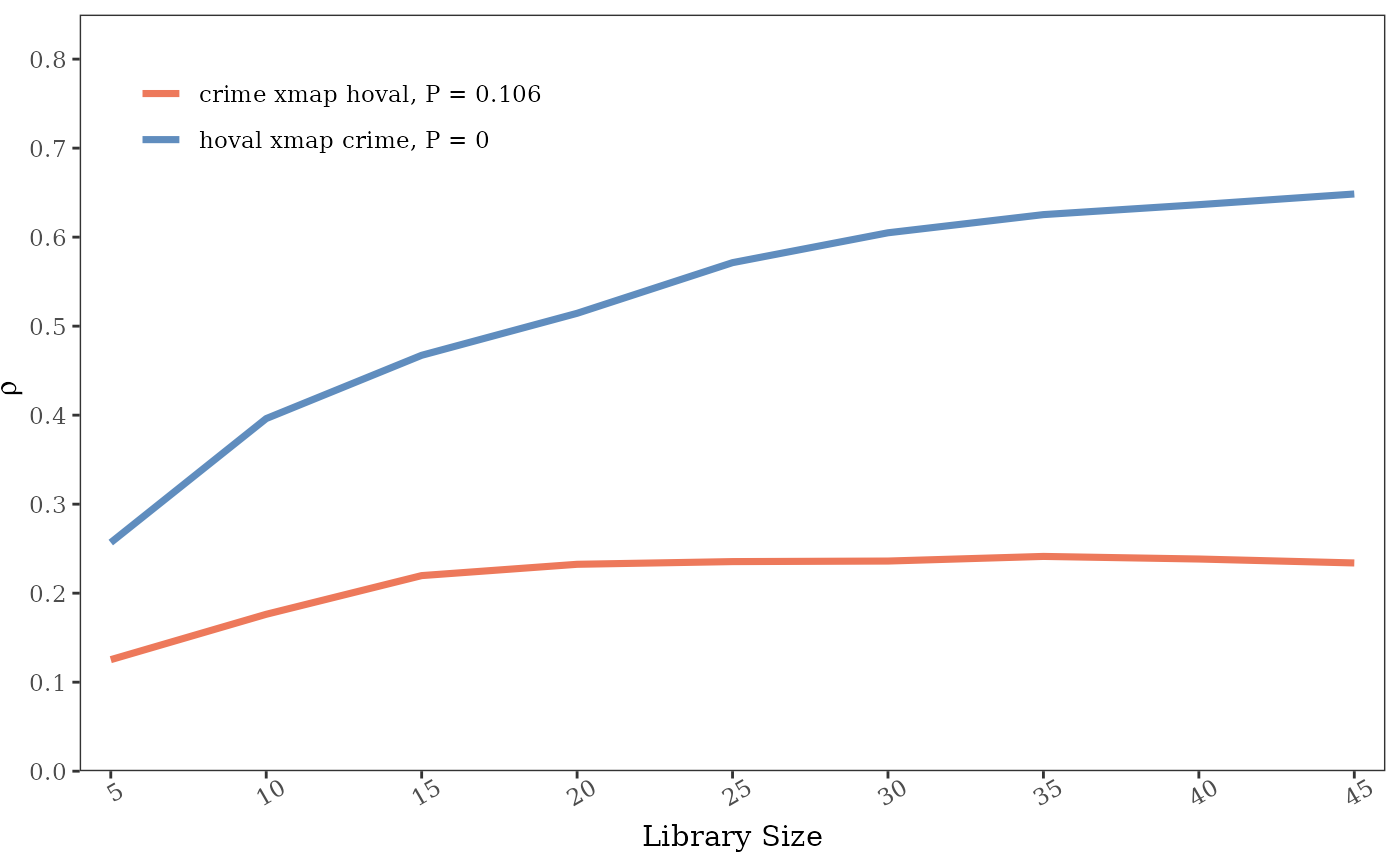
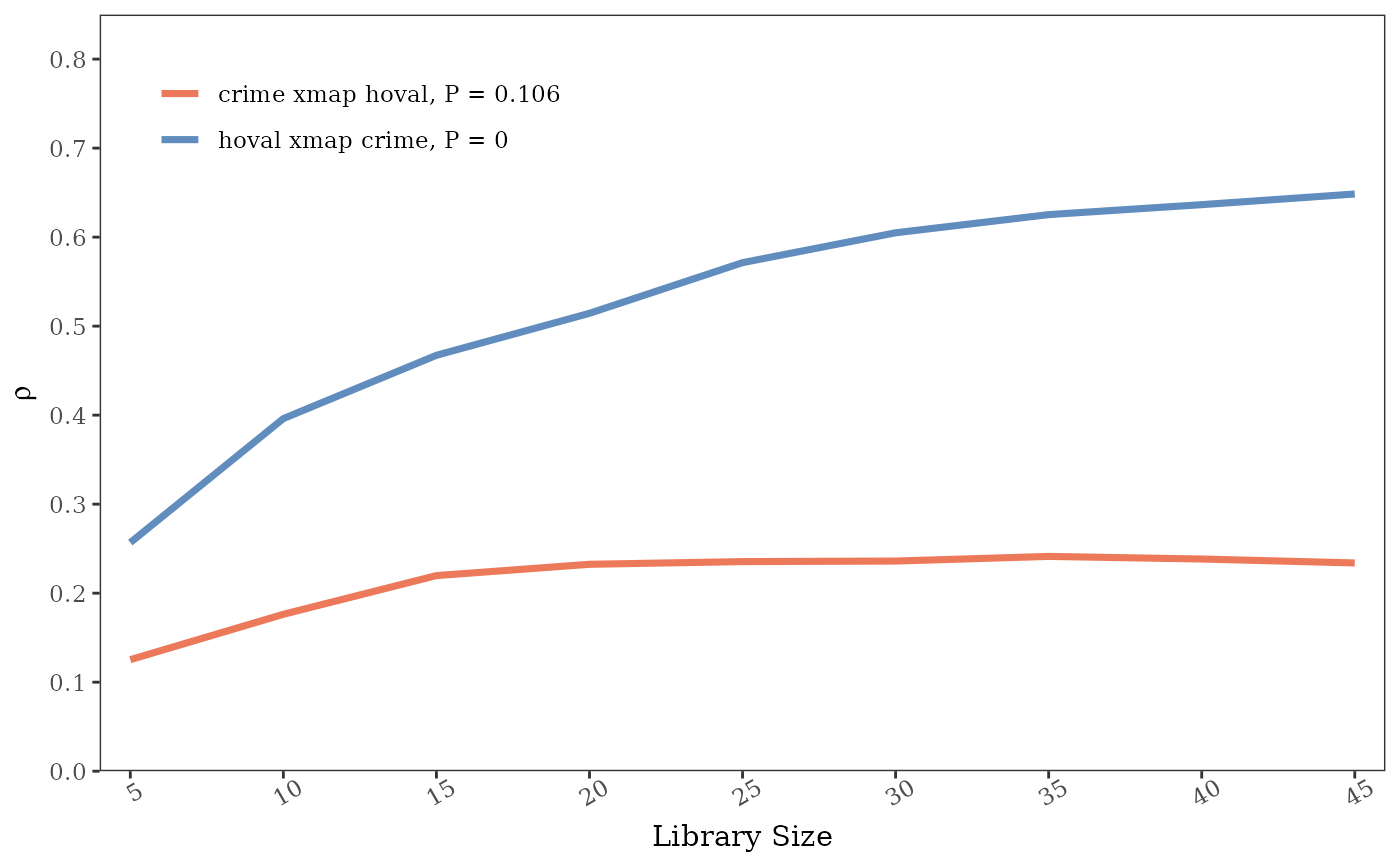
Deploying to gh-pages from @ SpatLyu/spEDM@a8ad164b0715109a0c9b236eea4f783126300f94 🚀

diff --git a/reference/multiview.html b/reference/multiview.html
@@ -188,9 +188,9 @@
     <h2 id="ref-examples">Examples<a class="anchor" aria-label="anchor" href="#ref-examples"></a></h2>
     <div class="sourceCode"><pre class="sourceCode r"><code><span class="r-in"><span><span class="va">columbus</span> <span class="op">=</span> <span class="fu">sf</span><span class="fu">::</span><span class="fu"><a href="https://r-spatial.github.io/sf/reference/st_read.html" class="external-link">read_sf</a></span><span class="op">(</span><span class="fu"><a href="https://rdrr.io/r/base/system.file.html" class="external-link">system.file</a></span><span class="op">(</span><span class="st">"case/columbus.gpkg"</span>,package<span class="op">=</span><span class="st">"spEDM"</span><span class="op">)</span><span class="op">)</span></span></span>
 <span class="r-in"><span><span class="co"># \donttest{</span></span></span>
-<span class="r-in"><span><span class="fu">multiview</span><span class="op">(</span><span class="va">columbus</span>,</span></span>
-<span class="r-in"><span>          column <span class="op">=</span> <span class="fu"><a href="https://rdrr.io/r/base/c.html" class="external-link">c</a></span><span class="op">(</span><span class="st">"inc"</span>,<span class="st">"crime"</span>,<span class="st">"open"</span>,<span class="st">"plumb"</span>,<span class="st">"discbd"</span><span class="op">)</span>,</span></span>
-<span class="r-in"><span>          target <span class="op">=</span> <span class="st">"hoval"</span>, nvar <span class="op">=</span> <span class="fl">3</span><span class="op">)</span></span></span>
+<span class="r-in"><span><span class="fu">spEDM</span><span class="fu">::</span><span class="fu">multiview</span><span class="op">(</span><span class="va">columbus</span>,</span></span>
+<span class="r-in"><span>                 column <span class="op">=</span> <span class="fu"><a href="https://rdrr.io/r/base/c.html" class="external-link">c</a></span><span class="op">(</span><span class="st">"inc"</span>,<span class="st">"crime"</span>,<span class="st">"open"</span>,<span class="st">"plumb"</span>,<span class="st">"discbd"</span><span class="op">)</span>,</span></span>
+<span class="r-in"><span>                 target <span class="op">=</span> <span class="st">"hoval"</span>, nvar <span class="op">=</span> <span class="fl">3</span><span class="op">)</span></span></span>
 <span class="r-out co"><span class="r-pr">#&gt;</span>  [1]  18.8646054  22.4869617  21.1550738  -1.1253460  -9.1007114  -2.7903615</span>
 <span class="r-out co"><span class="r-pr">#&gt;</span>  [7]  -7.6201012  -6.6613986  -8.7202885  16.2907046 -13.4100870   5.5617166</span>
 <span class="r-out co"><span class="r-pr">#&gt;</span> [13]  -4.6242104  -6.0215133 -12.1983725  -9.3303243  14.4441917   2.2055448</span>

diff --git a/reference/embedded.html b/reference/embedded.html
@@ -134,7 +134,7 @@
     <div class="section level2">
     <h2 id="ref-examples">Examples<a class="anchor" aria-label="anchor" href="#ref-examples"></a></h2>
     <div class="sourceCode"><pre class="sourceCode r"><code><span class="r-in"><span><span class="va">columbus</span> <span class="op">=</span> <span class="fu">sf</span><span class="fu">::</span><span class="fu"><a href="https://r-spatial.github.io/sf/reference/st_read.html" class="external-link">read_sf</a></span><span class="op">(</span><span class="fu"><a href="https://rdrr.io/r/base/system.file.html" class="external-link">system.file</a></span><span class="op">(</span><span class="st">"case/columbus.gpkg"</span>,package<span class="op">=</span><span class="st">"spEDM"</span><span class="op">)</span><span class="op">)</span></span></span>
-<span class="r-in"><span><span class="va">v</span> <span class="op">=</span> <span class="fu">embedded</span><span class="op">(</span><span class="va">columbus</span>,<span class="st">"crime"</span><span class="op">)</span></span></span>
+<span class="r-in"><span><span class="va">v</span> <span class="op">=</span> <span class="fu">spEDM</span><span class="fu">::</span><span class="fu">embedded</span><span class="op">(</span><span class="va">columbus</span>,<span class="st">"crime"</span><span class="op">)</span></span></span>
 <span class="r-in"><span><span class="va">v</span><span class="op">[</span><span class="fl">1</span><span class="op">:</span><span class="fl">5</span>,<span class="op">]</span></span></span>
 <span class="r-out co"><span class="r-pr">#&gt;</span>          [,1]     [,2]     [,3]</span>
 <span class="r-out co"><span class="r-pr">#&gt;</span> [1,] 24.71427 41.55964 43.45135</span>
@@ -144,7 +144,7 @@
 <span class="r-out co"><span class="r-pr">#&gt;</span> [5,] 40.46533 34.43484 42.28334</span>
 <span class="r-in"><span></span></span>
 <span class="r-in"><span><span class="va">npp</span> <span class="op">=</span> <span class="fu">terra</span><span class="fu">::</span><span class="fu"><a href="https://rspatial.github.io/terra/reference/rast.html" class="external-link">rast</a></span><span class="op">(</span><span class="fu"><a href="https://rdrr.io/r/base/system.file.html" class="external-link">system.file</a></span><span class="op">(</span><span class="st">"case/npp.tif"</span>,package<span class="op">=</span><span class="st">"spEDM"</span><span class="op">)</span><span class="op">)</span></span></span>
-<span class="r-in"><span><span class="va">r</span> <span class="op">=</span> <span class="fu">embedded</span><span class="op">(</span><span class="va">npp</span>,<span class="st">"npp"</span><span class="op">)</span></span></span>
+<span class="r-in"><span><span class="va">r</span> <span class="op">=</span> <span class="fu">spEDM</span><span class="fu">::</span><span class="fu">embedded</span><span class="op">(</span><span class="va">npp</span>,<span class="st">"npp"</span><span class="op">)</span></span></span>
 <span class="r-in"><span><span class="va">r</span><span class="op">[</span><span class="fu"><a href="https://rdrr.io/r/base/which.html" class="external-link">which</a></span><span class="op">(</span><span class="op">!</span><span class="fu"><a href="https://rdrr.io/r/base/NA.html" class="external-link">is.na</a></span><span class="op">(</span><span class="va">r</span><span class="op">)</span>,arr.ind <span class="op">=</span> <span class="cn">TRUE</span><span class="op">)</span><span class="op">[</span><span class="fl">1</span><span class="op">:</span><span class="fl">5</span><span class="op">]</span>,<span class="op">]</span></span></span>
 <span class="r-out co"><span class="r-pr">#&gt;</span>          [,1]     [,2]     [,3]</span>
 <span class="r-out co"><span class="r-pr">#&gt;</span> [1,] 3467.572 3572.004 2611.333</span>

diff --git a/reference/gpc.html b/reference/gpc.html
@@ -242,7 +242,7 @@
     <h2 id="ref-examples">Examples<a class="anchor" aria-label="anchor" href="#ref-examples"></a></h2>
     <div class="sourceCode"><pre class="sourceCode r"><code><span class="r-in"><span><span class="va">columbus</span> <span class="op">=</span> <span class="fu">sf</span><span class="fu">::</span><span class="fu"><a href="https://r-spatial.github.io/sf/reference/st_read.html" class="external-link">read_sf</a></span><span class="op">(</span><span class="fu"><a href="https://rdrr.io/r/base/system.file.html" class="external-link">system.file</a></span><span class="op">(</span><span class="st">"case/columbus.gpkg"</span>,package<span class="op">=</span><span class="st">"spEDM"</span><span class="op">)</span><span class="op">)</span></span></span>
 <span class="r-in"><span><span class="co"># \donttest{</span></span></span>
-<span class="r-in"><span><span class="fu">gpc</span><span class="op">(</span><span class="va">columbus</span>,<span class="st">"hoval"</span>,<span class="st">"crime"</span>,E <span class="op">=</span> <span class="fl">6</span>,k <span class="op">=</span> <span class="fl">9</span><span class="op">)</span></span></span>
+<span class="r-in"><span><span class="fu">spEDM</span><span class="fu">::</span><span class="fu">gpc</span><span class="op">(</span><span class="va">columbus</span>,<span class="st">"hoval"</span>,<span class="st">"crime"</span>,E <span class="op">=</span> <span class="fl">6</span>,k <span class="op">=</span> <span class="fl">9</span><span class="op">)</span></span></span>
 <span class="r-out co"><span class="r-pr">#&gt;</span>       type   strength      direction</span>
 <span class="r-out co"><span class="r-pr">#&gt;</span> 1 positive        NaN hoval -&gt; crime</span>
 <span class="r-out co"><span class="r-pr">#&gt;</span> 2 negative 0.12226140 hoval -&gt; crime</span>
@@ -252,7 +252,7 @@
 <span class="r-out co"><span class="r-pr">#&gt;</span> 6     dark 0.15444661 crime -&gt; hoval</span>
 <span class="r-in"><span></span></span>
 <span class="r-in"><span><span class="co"># convergence diagnostics</span></span></span>
-<span class="r-in"><span><span class="va">g</span> <span class="op">=</span> <span class="fu">gpc</span><span class="op">(</span><span class="va">columbus</span>,<span class="st">"hoval"</span>,<span class="st">"crime"</span>,libsizes <span class="op">=</span> <span class="fu"><a href="https://rdrr.io/r/base/seq.html" class="external-link">seq</a></span><span class="op">(</span><span class="fl">5</span>,<span class="fl">45</span>,<span class="fl">5</span><span class="op">)</span>,E <span class="op">=</span> <span class="fl">6</span>,k <span class="op">=</span> <span class="fl">9</span><span class="op">)</span></span></span>
+<span class="r-in"><span><span class="va">g</span> <span class="op">=</span> <span class="fu">spEDM</span><span class="fu">::</span><span class="fu">gpc</span><span class="op">(</span><span class="va">columbus</span>,<span class="st">"hoval"</span>,<span class="st">"crime"</span>,libsizes <span class="op">=</span> <span class="fu"><a href="https://rdrr.io/r/base/seq.html" class="external-link">seq</a></span><span class="op">(</span><span class="fl">5</span>,<span class="fl">45</span>,<span class="fl">5</span><span class="op">)</span>,E <span class="op">=</span> <span class="fl">6</span>,k <span class="op">=</span> <span class="fl">9</span><span class="op">)</span></span></span>
 <span class="r-out co"><span class="r-pr">#&gt;</span> 
Computing: [========================================] 100% (done)                         </span>
 <span class="r-out co"><span class="r-pr">#&gt;</span> 
Computing: [========================================] 100% (done)                         </span>
 <span class="r-in"><span><span class="fu"><a href="https://rdrr.io/r/graphics/plot.default.html" class="external-link">plot</a></span><span class="op">(</span><span class="va">g</span><span class="op">)</span></span></span>

diff --git a/news/index.html b/news/index.html
@@ -57,7 +57,8 @@
 </ul></div>
 <div class="section level4">
 <h4 id="enhancements-1-12">enhancements<a class="anchor" aria-label="anchor" href="#enhancements-1-12"></a></h4>
-<ul><li><p>Inject plain-text terminal hint to <code>fnn</code> output (<a href="https://github.com/stscl/spEDM/issues/965" class="external-link">#965</a>).</p></li>
+<ul><li><p>Qualify function calls in examples with namespace for reproducibility (<a href="https://github.com/stscl/spEDM/issues/971" class="external-link">#971</a>).</p></li>
+<li><p>Inject plain-text terminal hint to <code>fnn</code> output (<a href="https://github.com/stscl/spEDM/issues/965" class="external-link">#965</a>).</p></li>
 <li><p>Unify preprocessing strategies for embedding parameters <code>E</code> and <code>tau</code> across spatial causal discovery algorithms (<a href="https://github.com/stscl/spEDM/issues/960" class="external-link">#960</a>).</p></li>
 <li><p>Enable asymmetric configurations (<code>E</code>, <code>tau</code>, <code>k</code>) in bidirectional pattern causality analysis (<a href="https://github.com/stscl/spEDM/issues/955" class="external-link">#955</a>).</p></li>
 </ul></div>

diff --git a/reference/detectThreads.html b/reference/detectThreads.html
@@ -66,7 +66,7 @@
 
     <div class="section level2">
     <h2 id="ref-examples">Examples<a class="anchor" aria-label="anchor" href="#ref-examples"></a></h2>
-    <div class="sourceCode"><pre class="sourceCode r"><code><span class="r-in"><span><span class="fu">detectThreads</span><span class="op">(</span><span class="op">)</span></span></span>
+    <div class="sourceCode"><pre class="sourceCode r"><code><span class="r-in"><span><span class="fu">spEDM</span><span class="fu">::</span><span class="fu">detectThreads</span><span class="op">(</span><span class="op">)</span></span></span>
 <span class="r-out co"><span class="r-pr">#&gt;</span> [1] 4</span>
 <span class="r-in"><span></span></span>
 </code></pre></div>

diff --git a/reference/fnn.html b/reference/fnn.html
@@ -175,7 +175,7 @@
     <h2 id="ref-examples">Examples<a class="anchor" aria-label="anchor" href="#ref-examples"></a></h2>
     <div class="sourceCode"><pre class="sourceCode r"><code><span class="r-in"><span><span class="va">columbus</span> <span class="op">=</span> <span class="fu">sf</span><span class="fu">::</span><span class="fu"><a href="https://r-spatial.github.io/sf/reference/st_read.html" class="external-link">read_sf</a></span><span class="op">(</span><span class="fu"><a href="https://rdrr.io/r/base/system.file.html" class="external-link">system.file</a></span><span class="op">(</span><span class="st">"case/columbus.gpkg"</span>,package<span class="op">=</span><span class="st">"spEDM"</span><span class="op">)</span><span class="op">)</span></span></span>
 <span class="r-in"><span><span class="co"># \donttest{</span></span></span>
-<span class="r-in"><span><span class="fu">fnn</span><span class="op">(</span><span class="va">columbus</span>,<span class="st">"crime"</span><span class="op">)</span></span></span>
+<span class="r-in"><span><span class="fu">spEDM</span><span class="fu">::</span><span class="fu">fnn</span><span class="op">(</span><span class="va">columbus</span>,<span class="st">"crime"</span><span class="op">)</span></span></span>
 <span class="r-out co"><span class="r-pr">#&gt;</span> [spEDM] Output 'E:i' corresponds to the i-th valid embedding dimension.</span>
 <span class="r-out co"><span class="r-pr">#&gt;</span> [spEDM] Input E values exceeding max embeddable dimension were truncated.</span>
 <span class="r-out co"><span class="r-pr">#&gt;</span> [spEDM] Please map output indices to original E inputs before interpretation.</span>

diff --git a/reference/gccm.html b/reference/gccm.html
@@ -231,7 +231,7 @@
     <h2 id="ref-examples">Examples<a class="anchor" aria-label="anchor" href="#ref-examples"></a></h2>
     <div class="sourceCode"><pre class="sourceCode r"><code><span class="r-in"><span><span class="va">columbus</span> <span class="op">=</span> <span class="fu">sf</span><span class="fu">::</span><span class="fu"><a href="https://r-spatial.github.io/sf/reference/st_read.html" class="external-link">read_sf</a></span><span class="op">(</span><span class="fu"><a href="https://rdrr.io/r/base/system.file.html" class="external-link">system.file</a></span><span class="op">(</span><span class="st">"case/columbus.gpkg"</span>,package<span class="op">=</span><span class="st">"spEDM"</span><span class="op">)</span><span class="op">)</span></span></span>
 <span class="r-in"><span><span class="co"># \donttest{</span></span></span>
-<span class="r-in"><span><span class="va">g</span> <span class="op">=</span> <span class="fu">gccm</span><span class="op">(</span><span class="va">columbus</span>,<span class="st">"hoval"</span>,<span class="st">"crime"</span>,libsizes <span class="op">=</span> <span class="fu"><a href="https://rdrr.io/r/base/seq.html" class="external-link">seq</a></span><span class="op">(</span><span class="fl">5</span>,<span class="fl">45</span>,<span class="fl">5</span><span class="op">)</span>,E <span class="op">=</span> <span class="fl">6</span><span class="op">)</span></span></span>
+<span class="r-in"><span><span class="va">g</span> <span class="op">=</span> <span class="fu">spEDM</span><span class="fu">::</span><span class="fu">gccm</span><span class="op">(</span><span class="va">columbus</span>,<span class="st">"hoval"</span>,<span class="st">"crime"</span>,libsizes <span class="op">=</span> <span class="fu"><a href="https://rdrr.io/r/base/seq.html" class="external-link">seq</a></span><span class="op">(</span><span class="fl">5</span>,<span class="fl">45</span>,<span class="fl">5</span><span class="op">)</span>,E <span class="op">=</span> <span class="fl">6</span><span class="op">)</span></span></span>
 <span class="r-out co"><span class="r-pr">#&gt;</span> 
Computing: [========================================] 100% (done)                         </span>
 <span class="r-out co"><span class="r-pr">#&gt;</span> 
Computing: [========================================] 100% (done)                         </span>
 <span class="r-in"><span><span class="va">g</span></span></span>

diff --git a/reference/gcmc.html b/reference/gcmc.html
@@ -196,7 +196,7 @@
     <h2 id="ref-examples">Examples<a class="anchor" aria-label="anchor" href="#ref-examples"></a></h2>
     <div class="sourceCode"><pre class="sourceCode r"><code><span class="r-in"><span><span class="va">columbus</span> <span class="op">=</span> <span class="fu">sf</span><span class="fu">::</span><span class="fu"><a href="https://r-spatial.github.io/sf/reference/st_read.html" class="external-link">read_sf</a></span><span class="op">(</span><span class="fu"><a href="https://rdrr.io/r/base/system.file.html" class="external-link">system.file</a></span><span class="op">(</span><span class="st">"case/columbus.gpkg"</span>,package<span class="op">=</span><span class="st">"spEDM"</span><span class="op">)</span><span class="op">)</span></span></span>
 <span class="r-in"><span><span class="co"># \donttest{</span></span></span>
-<span class="r-in"><span><span class="va">g</span> <span class="op">=</span> <span class="fu">gcmc</span><span class="op">(</span><span class="va">columbus</span>,<span class="st">"hoval"</span>,<span class="st">"crime"</span>,E <span class="op">=</span> <span class="fl">7</span>,k <span class="op">=</span> <span class="fl">19</span><span class="op">)</span></span></span>
+<span class="r-in"><span><span class="va">g</span> <span class="op">=</span> <span class="fu">spEDM</span><span class="fu">::</span><span class="fu">gcmc</span><span class="op">(</span><span class="va">columbus</span>,<span class="st">"hoval"</span>,<span class="st">"crime"</span>,E <span class="op">=</span> <span class="fl">7</span>,k <span class="op">=</span> <span class="fl">19</span><span class="op">)</span></span></span>
 <span class="r-out co"><span class="r-pr">#&gt;</span> 
Computing: [========================================] 100% (done)                         </span>
 <span class="r-out co"><span class="r-pr">#&gt;</span> 
Computing: [========================================] 100% (done)                         </span>
 <span class="r-in"><span><span class="va">g</span></span></span>

diff --git a/reference/ic.html b/reference/ic.html
@@ -173,7 +173,7 @@
     <h2 id="ref-examples">Examples<a class="anchor" aria-label="anchor" href="#ref-examples"></a></h2>
     <div class="sourceCode"><pre class="sourceCode r"><code><span class="r-in"><span><span class="va">columbus</span> <span class="op">=</span> <span class="fu">sf</span><span class="fu">::</span><span class="fu"><a href="https://r-spatial.github.io/sf/reference/st_read.html" class="external-link">read_sf</a></span><span class="op">(</span><span class="fu"><a href="https://rdrr.io/r/base/system.file.html" class="external-link">system.file</a></span><span class="op">(</span><span class="st">"case/columbus.gpkg"</span>,package<span class="op">=</span><span class="st">"spEDM"</span><span class="op">)</span><span class="op">)</span></span></span>
 <span class="r-in"><span><span class="co"># \donttest{</span></span></span>
-<span class="r-in"><span><span class="fu">ic</span><span class="op">(</span><span class="va">columbus</span>,<span class="st">"hoval"</span>,<span class="st">"crime"</span>,E <span class="op">=</span> <span class="fl">7</span>,k <span class="op">=</span> <span class="fl">15</span><span class="op">:</span><span class="fl">25</span><span class="op">)</span></span></span>
+<span class="r-in"><span><span class="fu">spEDM</span><span class="fu">::</span><span class="fu">ic</span><span class="op">(</span><span class="va">columbus</span>,<span class="st">"hoval"</span>,<span class="st">"crime"</span>,E <span class="op">=</span> <span class="fl">7</span>,k <span class="op">=</span> <span class="fl">15</span><span class="op">:</span><span class="fl">25</span><span class="op">)</span></span></span>
 <span class="r-out co"><span class="r-pr">#&gt;</span> The suggested E,k,tau for variable crime is 7, 18 and 1 </span>
 <span class="r-in"><span><span class="co"># }</span></span></span>
 </code></pre></div>

diff --git a/reference/pc.html b/reference/pc.html
@@ -200,7 +200,7 @@
     <h2 id="ref-examples">Examples<a class="anchor" aria-label="anchor" href="#ref-examples"></a></h2>
     <div class="sourceCode"><pre class="sourceCode r"><code><span class="r-in"><span><span class="va">columbus</span> <span class="op">=</span> <span class="fu">sf</span><span class="fu">::</span><span class="fu"><a href="https://r-spatial.github.io/sf/reference/st_read.html" class="external-link">read_sf</a></span><span class="op">(</span><span class="fu"><a href="https://rdrr.io/r/base/system.file.html" class="external-link">system.file</a></span><span class="op">(</span><span class="st">"case/columbus.gpkg"</span>,package<span class="op">=</span><span class="st">"spEDM"</span><span class="op">)</span><span class="op">)</span></span></span>
 <span class="r-in"><span><span class="co"># \donttest{</span></span></span>
-<span class="r-in"><span><span class="fu">pc</span><span class="op">(</span><span class="va">columbus</span>,<span class="st">"hoval"</span>,<span class="st">"crime"</span>,E <span class="op">=</span> <span class="fl">5</span><span class="op">:</span><span class="fl">10</span>,maximize <span class="op">=</span> <span class="st">"negative"</span><span class="op">)</span></span></span>
+<span class="r-in"><span><span class="fu">spEDM</span><span class="fu">::</span><span class="fu">pc</span><span class="op">(</span><span class="va">columbus</span>,<span class="st">"hoval"</span>,<span class="st">"crime"</span>,E <span class="op">=</span> <span class="fl">5</span><span class="op">:</span><span class="fl">10</span>,maximize <span class="op">=</span> <span class="st">"negative"</span><span class="op">)</span></span></span>
 <span class="r-out co"><span class="r-pr">#&gt;</span> The suggested E,k,tau for variable crime is 7, 8 and 1 </span>
 <span class="r-in"><span><span class="co"># }</span></span></span>
 </code></pre></div>

diff --git a/reference/sc.test.html b/reference/sc.test.html
@@ -182,7 +182,7 @@
     <h2 id="ref-examples">Examples<a class="anchor" aria-label="anchor" href="#ref-examples"></a></h2>
     <div class="sourceCode"><pre class="sourceCode r"><code><span class="r-in"><span><span class="va">columbus</span> <span class="op">=</span> <span class="fu">sf</span><span class="fu">::</span><span class="fu"><a href="https://r-spatial.github.io/sf/reference/st_read.html" class="external-link">read_sf</a></span><span class="op">(</span><span class="fu"><a href="https://rdrr.io/r/base/system.file.html" class="external-link">system.file</a></span><span class="op">(</span><span class="st">"case/columbus.gpkg"</span>,package<span class="op">=</span><span class="st">"spEDM"</span><span class="op">)</span><span class="op">)</span></span></span>
 <span class="r-in"><span><span class="co"># \donttest{</span></span></span>
-<span class="r-in"><span><span class="fu">sc.test</span><span class="op">(</span><span class="va">columbus</span>,<span class="st">"hoval"</span>,<span class="st">"crime"</span>,k <span class="op">=</span> <span class="fl">15</span><span class="op">)</span></span></span>
+<span class="r-in"><span><span class="fu">spEDM</span><span class="fu">::</span><span class="fu">sc.test</span><span class="op">(</span><span class="va">columbus</span>,<span class="st">"hoval"</span>,<span class="st">"crime"</span>,k <span class="op">=</span> <span class="fl">15</span><span class="op">)</span></span></span>
 <span class="r-out co"><span class="r-pr">#&gt;</span> spatial causality test</span>
 <span class="r-out co"><span class="r-pr">#&gt;</span> hoval -&gt; crime: statistic = 1.114, p value = 0.549</span>
 <span class="r-out co"><span class="r-pr">#&gt;</span> crime -&gt; hoval: statistic = 1.555, p value = 0.008</span>

diff --git a/reference/scpcm.html b/reference/scpcm.html
@@ -242,7 +242,7 @@
     <h2 id="ref-examples">Examples<a class="anchor" aria-label="anchor" href="#ref-examples"></a></h2>
     <div class="sourceCode"><pre class="sourceCode r"><code><span class="r-in"><span><span class="va">columbus</span> <span class="op">=</span> <span class="fu">sf</span><span class="fu">::</span><span class="fu"><a href="https://r-spatial.github.io/sf/reference/st_read.html" class="external-link">read_sf</a></span><span class="op">(</span><span class="fu"><a href="https://rdrr.io/r/base/system.file.html" class="external-link">system.file</a></span><span class="op">(</span><span class="st">"case/columbus.gpkg"</span>,package<span class="op">=</span><span class="st">"spEDM"</span><span class="op">)</span><span class="op">)</span></span></span>
 <span class="r-in"><span><span class="co"># \donttest{</span></span></span>
-<span class="r-in"><span><span class="va">g</span> <span class="op">=</span> <span class="fu">scpcm</span><span class="op">(</span><span class="va">columbus</span>,<span class="st">"hoval"</span>,<span class="st">"crime"</span>,<span class="st">"inc"</span>,libsizes <span class="op">=</span> <span class="fu"><a href="https://rdrr.io/r/base/seq.html" class="external-link">seq</a></span><span class="op">(</span><span class="fl">5</span>,<span class="fl">45</span>,<span class="fl">5</span><span class="op">)</span>,E <span class="op">=</span> <span class="fl">6</span><span class="op">)</span></span></span>
+<span class="r-in"><span><span class="va">g</span> <span class="op">=</span> <span class="fu">spEDM</span><span class="fu">::</span><span class="fu">scpcm</span><span class="op">(</span><span class="va">columbus</span>,<span class="st">"hoval"</span>,<span class="st">"crime"</span>,<span class="st">"inc"</span>,libsizes <span class="op">=</span> <span class="fu"><a href="https://rdrr.io/r/base/seq.html" class="external-link">seq</a></span><span class="op">(</span><span class="fl">5</span>,<span class="fl">45</span>,<span class="fl">5</span><span class="op">)</span>,E <span class="op">=</span> <span class="fl">6</span><span class="op">)</span></span></span>
 <span class="r-out co"><span class="r-pr">#&gt;</span> 
Computing: [========================================] 100% (done)                         </span>
 <span class="r-out co"><span class="r-pr">#&gt;</span> 
Computing: [========================================] 100% (done)                         </span>
 <span class="r-in"><span><span class="va">g</span></span></span>